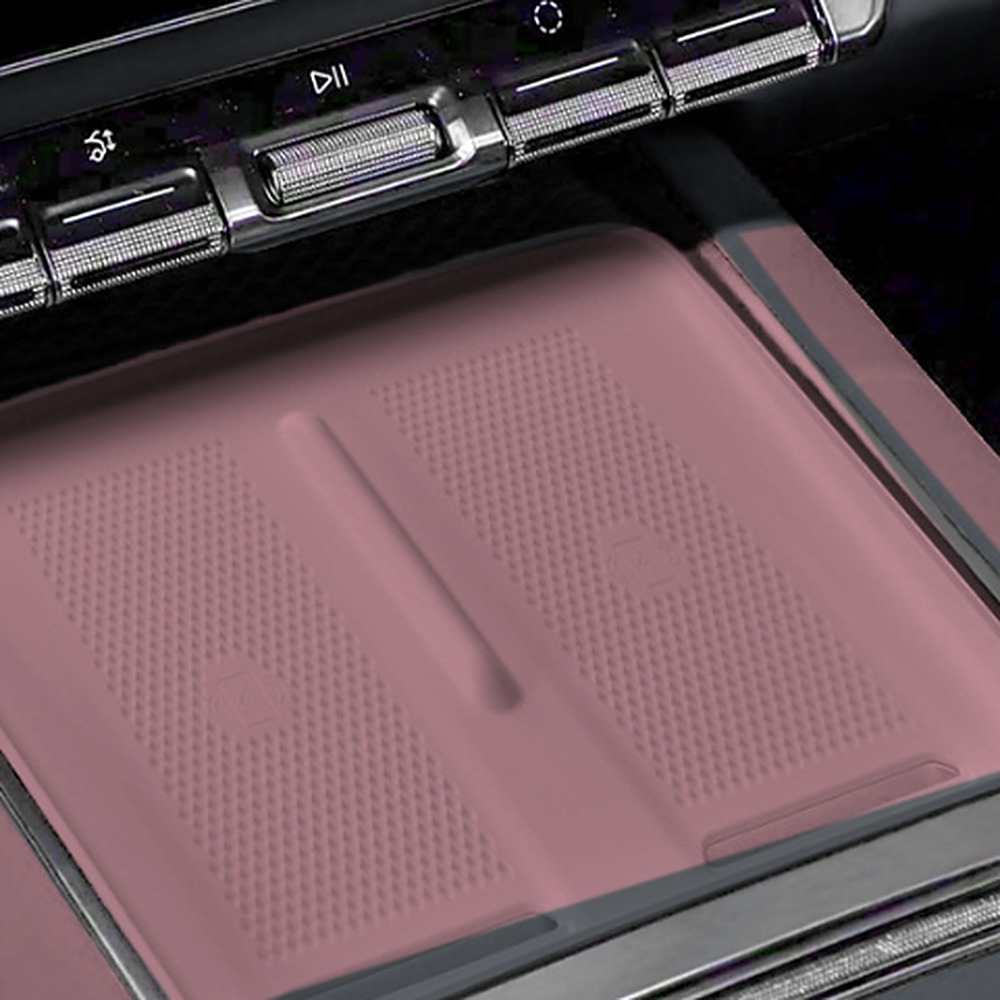
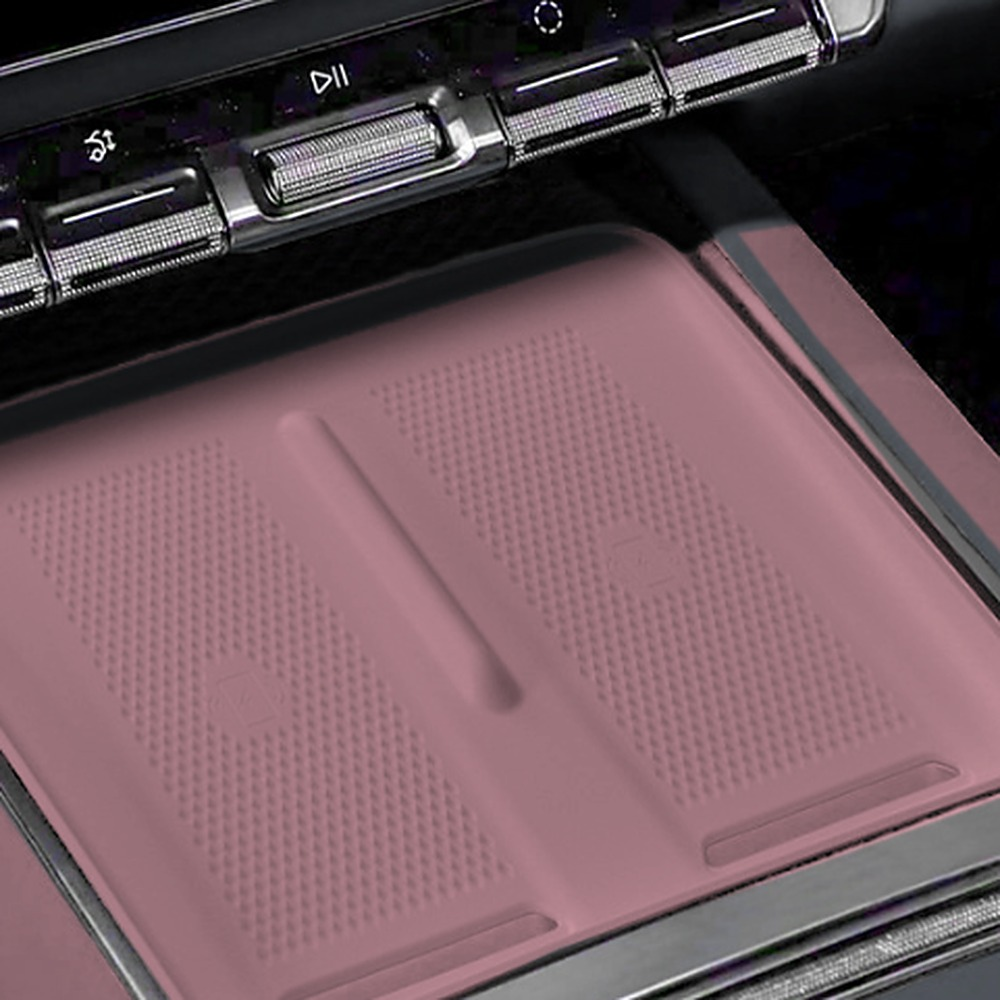
무선충전 패드(5번): 오렌지·퍼플 사진에서 패드 아래쪽이 잘려 보이던 부분 수정

Changed region(s): [[0.248, 0.744, 1.0, 1.0]]

diff --git a/shop/config.js b/shop/config.js
@@ -8,4 +8,4 @@ window.SHEET_URL = 'https://docs.google.com/spreadsheets/d/19crq_-szVqdJRlVK12RK
 window.KAKAO_CHANNEL_URL = '';
 
 // 상품 사진 버전 (사진을 교체하면 숫자를 올려 주세요)
-window.ASSET_V = '10052200';
+window.ASSET_V = '10052300';
